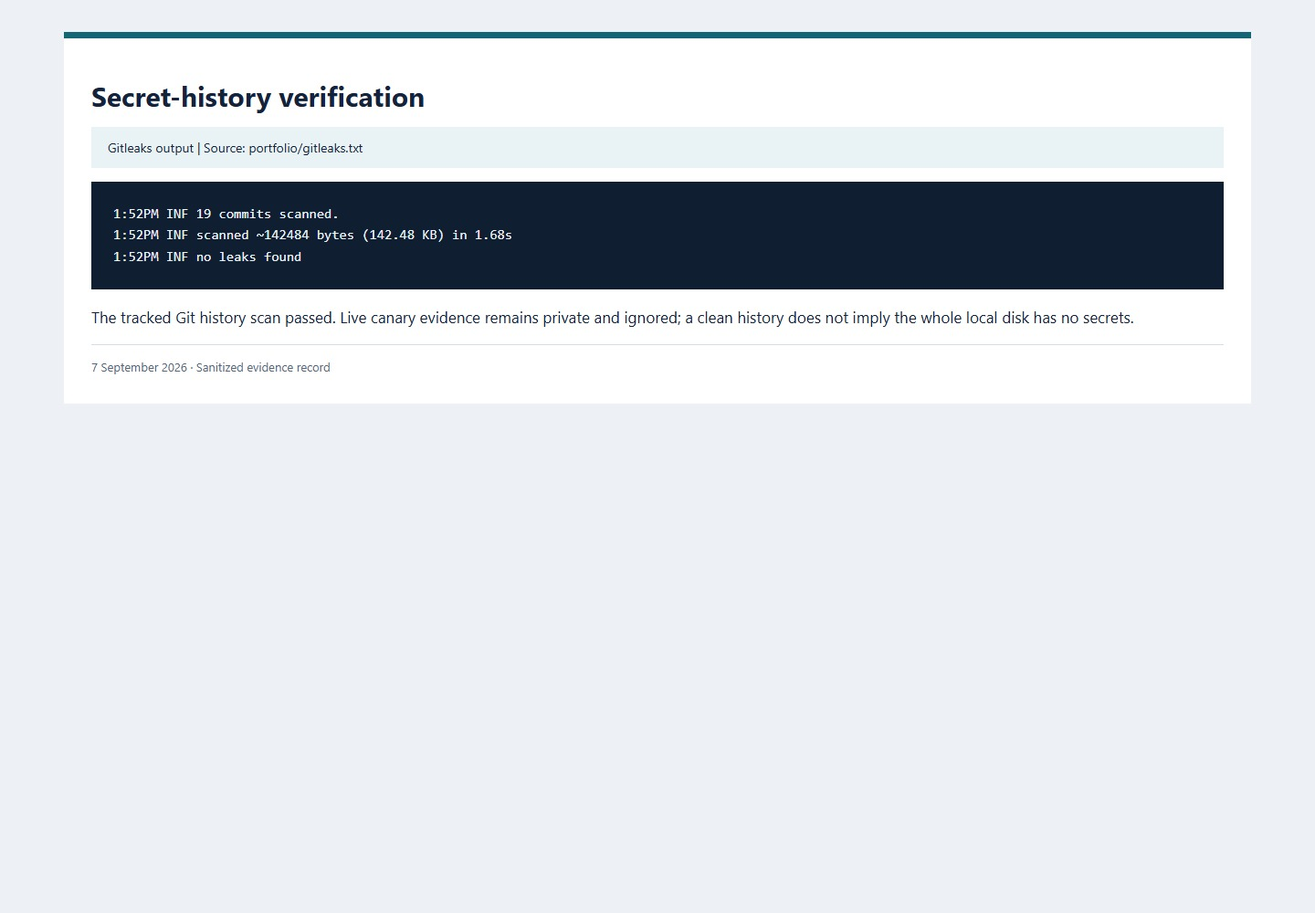
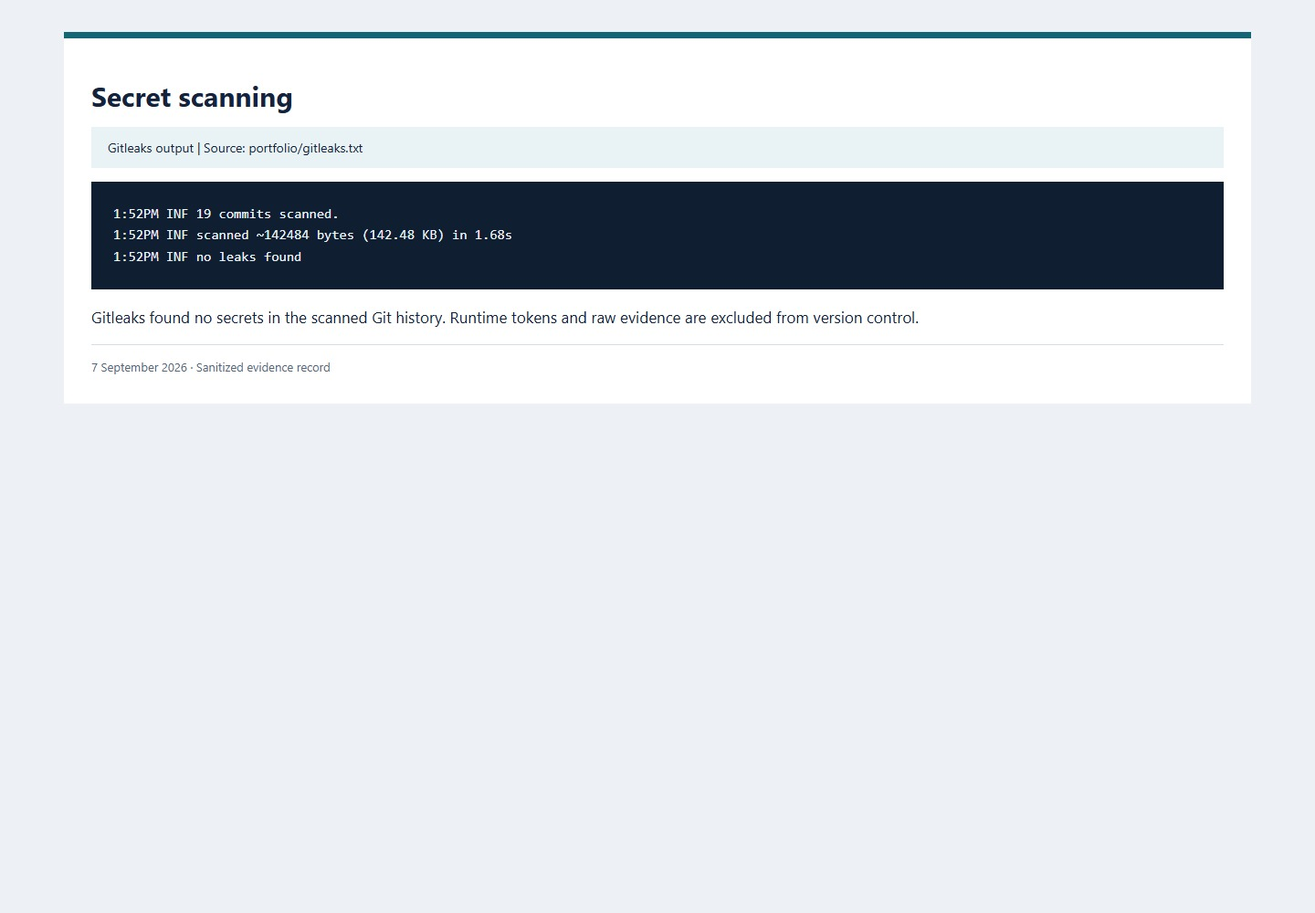
Write project documentation for readers and contributors

Changed region(s): [[0.0625, 0.341, 0.8438, 0.372], [0.125, 0.093, 0.3438, 0.124]]

diff --git a/docs/evidence/public/index.html b/docs/evidence/public/index.html
@@ -1,1 +1,1 @@
-<!doctype html><html lang="en"><meta charset="utf-8"><meta name="viewport" content="width=device-width,initial-scale=1"><title>Honey Token — validation walkthrough</title><style>body{margin:0;background:#edf1f5;color:#14233b;font:17px/1.55 Segoe UI,Arial}main{max-width:1240px;margin:35px auto;padding:30px;background:white;border-top:7px solid #126675}h1{font-size:30px;margin:10px 0}.meta{padding:12px 18px;background:#e9f2f4;font-size:14px}pre{white-space:pre-wrap;overflow-wrap:anywhere;font:15px/1.55 Consolas,monospace;background:#101e32;color:#ebf3fa;padding:24px}footer{font-size:13px;color:#53677c;border-top:1px solid #d4dee6;padding-top:14px}a{color:#126675}img{max-width:100%;height:auto}article{margin:36px 0;padding-top:20px;border-top:1px solid #ccd5dc}</style><main><h1>Honey Token</h1><p>Validation evidence from 7 September 2026, covering setup, deployment, document retrieval, event triage, Sentinel ingestion, and tests. Word and GitHub images are application captures. Azure images display saved API and query records, rather than the Azure portal. No teardown was performed.</p><p>Account details, email addresses, source IPs, tenant/subscription identifiers, callback tokens, and resource endpoints are redacted or excluded. Raw records remain outside this package.</p><h2>Validation walkthrough</h2><ol><li><a href="#step01">Purpose and architecture</a></li><li><a href="#step02">Starting state and baseline</a></li><li><a href="#step03">Infrastructure deployment</a></li><li><a href="#step04">Receiver security configuration</a></li><li><a href="#step05">Deployed receiver health</a></li><li><a href="#step06">Word renders the synthetic decoy</a></li><li><a href="#step07">Word callback and triage</a></li><li><a href="#step08">Persisted events and delivery outcomes</a></li><li><a href="#step09">Log Analytics ingestion</a></li><li><a href="#step10">Sentinel analytic rule</a></li><li><a href="#step11">Sentinel incident</a></li><li><a href="#step12">GitHub main CI status</a></li><li><a href="#step13">GitHub test job</a></li><li><a href="#step14">GitHub pytest log</a></li><li><a href="#step15">Local regression and SMTP delivery</a></li><li><a href="#step16">Secret-history verification</a></li><li><a href="#step17">Limitations and teardown status</a></li></ol><article id="step01"><h2>01. Purpose and architecture</h2><div class="meta">Design summary | Source: ARCHITECTURE.md</div><p>Detect interaction in an authorized lab. A callback is a signal, not proof of exfiltration or identity.</p><a href="01-evidence.jpg"><img loading="lazy" src="01-evidence.jpg" alt="Purpose and architecture"></a></article><article id="step02"><h2>02. Starting state and baseline</h2><div class="meta">Archived record, captured 2026-09-07 | Source: 00-azure-start-state.json + docs/BASELINE.md</div><p>Shows the recorded starting point. This is a view of archived records, not an original portal screenshot.</p><a href="02-evidence.jpg"><img loading="lazy" src="02-evidence.jpg" alt="Starting state and baseline"></a></article><article id="step03"><h2>03. Infrastructure deployment</h2><div class="meta">Archived Azure deployment response | Source: 03-bicep-final-deployment.json</div><p>Records the actual deployment result while withholding subscription, tenant, principal and endpoint values.</p><a href="03-evidence.jpg"><img loading="lazy" src="03-evidence.jpg" alt="Infrastructure deployment"></a></article><article id="step04"><h2>04. Receiver security configuration</h2><div class="meta">Source configuration evidence | Source: infra/main.bicep</div><p>Shows checked-in controls. Role configuration alone does not prove a fresh live access review.</p><a href="04-evidence.jpg"><img loading="lazy" src="04-evidence.jpg" alt="Receiver security configuration"></a></article><article id="step05"><h2>05. Deployed receiver health</h2><div class="meta">Archived HTTP result | Source: 09-container-app-health.json</div><p>HTTP 200 with receiver-only mode and Azure Table storage in the saved deployment validation.</p><a href="05-evidence.jpg"><img loading="lazy" src="05-evidence.jpg" alt="Deployed receiver health"></a></article><article id="step06"><h2>06. Word renders the synthetic decoy</h2><div class="meta">Microsoft Word UI capture | Source: Word 16.0.20326.20132</div><p>The generated DOCX displayed in Word. The capture excludes account controls and the cursor highlight. Image 07 contains the event recorded during the earlier local Word test.</p><a href="06-word-decoy.png"><img loading="lazy" src="06-word-decoy.png" alt="Word renders the synthetic decoy"></a></article><article id="step07"><h2>07. Word callback and triage</h2><div class="meta">Archived event from observed Word open | Source: word-viewer-result.json</div><p>Word 16.0.20326.20132 requested the local callback under existing settings. This does not establish Protected View or remote HTTPS behavior.</p><a href="07-evidence.jpg"><img loading="lazy" src="07-evidence.jpg" alt="Word callback and triage"></a></article><article id="step08"><h2>08. Persisted events and delivery outcomes</h2><div class="meta">Archived Azure Table query | Source: table-events-sanitized.json</div><p>Saved Azure Table rows retain alert and ingestion outcomes, including scanner severity. These rows are not duplicates; suppression is verified by the regression tests.</p><a href="08-evidence.jpg"><img loading="lazy" src="08-evidence.jpg" alt="Persisted events and delivery outcomes"></a></article><article id="step09"><h2>09. Log Analytics ingestion</h2><div class="meta">Archived CanaryHit_CL query | Source: log-analytics-latest.json</div><p>Saved query rows connect receiver events to the SIEM ingestion path. Raw callback tokens and source IPs are excluded.</p><a href="09-evidence.jpg"><img loading="lazy" src="09-evidence.jpg" alt="Log Analytics ingestion"></a></article><article id="step10"><h2>10. Sentinel analytic rule</h2><div class="meta">Archived rule configuration | Source: sentinel-rule.json</div><p>Shows scheduled detection logic and incident creation configuration. The evaluation schedule introduces delay.</p><a href="10-evidence.jpg"><img loading="lazy" src="10-evidence.jpg" alt="Sentinel analytic rule"></a></article><article id="step11"><h2>11. Sentinel incident</h2><div class="meta">Archived Sentinel incident response | Source: sentinel-incidents.json</div><p>Actual saved incident response; owner, incident URL, related resource IDs and tenant identifiers are omitted.</p><a href="11-evidence.jpg"><img loading="lazy" src="11-evidence.jpg" alt="Sentinel incident"></a></article><article id="step12"><h2>12. GitHub main CI status</h2><div class="meta">capture of completed GitHub run | Source: Actions run 34152044446, commit 2858824</div><p>The completed main-branch run reports Success. Account details and navigation are excluded from the crop.</p><a href="12-github-ci-status.jpg"><img loading="lazy" src="12-github-ci-status.jpg" alt="GitHub main CI status"></a></article><article id="step13"><h2>13. GitHub test job</h2><div class="meta">GitHub UI capture | Source: Actions run 34152044446</div><p>The workflow graph shows a successful test job. This is a cropped view of the actual GitHub page.</p><a href="13-github-test-job.jpg"><img loading="lazy" src="13-github-test-job.jpg" alt="GitHub test job"></a></article><article id="step14"><h2>14. GitHub pytest log</h2><div class="meta">GitHub UI capture | Source: Job 101836165394 in Actions run 34152044446</div><p>The actual pytest log shows completed assertions and dependency warnings. The full local summary is also visible in image 15.</p><a href="14-github-pytest-output.jpg"><img loading="lazy" src="14-github-pytest-output.jpg" alt="GitHub pytest log"></a></article><article id="step15"><h2>15. Local regression and SMTP delivery</h2><div class="meta">verification output | Source: portfolio/pytest.txt + tests/test_smtp_delivery.py</div><p>The suite includes a real ephemeral loopback SMTP sink, triage-field verification, duplicate suppression, and notification-failure isolation. No external mailbox credentials are used.</p><a href="15-evidence.jpg"><img loading="lazy" src="15-evidence.jpg" alt="Local regression and SMTP delivery"></a></article><article id="step16"><h2>16. Secret-history verification</h2><div class="meta">Gitleaks output | Source: portfolio/gitleaks.txt</div><p>The tracked Git history scan passed. Live canary evidence remains private and ignored; a clean history does not imply the whole local disk has no secrets.</p><a href="16-evidence.jpg"><img loading="lazy" src="16-evidence.jpg" alt="Secret-history verification"></a></article><article id="step17"><h2>17. Limitations and teardown status</h2><div class="meta">Documented final state | Source: VALIDATION_REPORT.md + COST_AND_TEARDOWN.md</div><p>The repository remains private. Publishing source and operating a production service are separate decisions.</p><a href="17-evidence.jpg"><img loading="lazy" src="17-evidence.jpg" alt="Limitations and teardown status"></a></article></main></html>
+<!doctype html><html lang="en"><meta charset="utf-8"><meta name="viewport" content="width=device-width,initial-scale=1"><title>Honey Token — validation walkthrough</title><style>body{margin:0;background:#edf1f5;color:#14233b;font:17px/1.55 Segoe UI,Arial}main{max-width:1240px;margin:35px auto;padding:30px;background:white;border-top:7px solid #126675}h1{font-size:30px;margin:10px 0}.meta{padding:12px 18px;background:#e9f2f4;font-size:14px}pre{white-space:pre-wrap;overflow-wrap:anywhere;font:15px/1.55 Consolas,monospace;background:#101e32;color:#ebf3fa;padding:24px}footer{font-size:13px;color:#53677c;border-top:1px solid #d4dee6;padding-top:14px}a{color:#126675}img{max-width:100%;height:auto}article{margin:36px 0;padding-top:20px;border-top:1px solid #ccd5dc}</style><main><h1>Honey Token</h1><p>Project walkthrough recorded on 7 September 2026, covering setup, deployment, document retrieval, event triage, Sentinel ingestion, and tests. Word and GitHub images are application captures. Azure images display saved API and query records, rather than the Azure portal. No teardown was performed.</p><p>Account details, email addresses, source IPs, tenant/subscription identifiers, callback tokens, and resource endpoints are redacted or excluded. Raw records remain outside this package.</p><h2>Project walkthrough</h2><ol><li><a href="#step01">Purpose and architecture</a></li><li><a href="#step02">Starting state and baseline</a></li><li><a href="#step03">Infrastructure deployment</a></li><li><a href="#step04">Receiver security configuration</a></li><li><a href="#step05">Deployed receiver health</a></li><li><a href="#step06">Word renders the synthetic decoy</a></li><li><a href="#step07">Word callback and triage</a></li><li><a href="#step08">Persisted events and delivery outcomes</a></li><li><a href="#step09">Log Analytics ingestion</a></li><li><a href="#step10">Sentinel analytic rule</a></li><li><a href="#step11">Sentinel incident</a></li><li><a href="#step12">GitHub main CI status</a></li><li><a href="#step13">GitHub test job</a></li><li><a href="#step14">GitHub pytest log</a></li><li><a href="#step15">Local regression and SMTP delivery</a></li><li><a href="#step16">Secret scanning</a></li><li><a href="#step17">Limitations and teardown status</a></li></ol><article id="step01"><h2>01. Purpose and architecture</h2><div class="meta">Design summary | Source: ARCHITECTURE.md</div><p>Detect interaction in an authorized lab. A callback is a signal, not proof of exfiltration or identity.</p><a href="01-evidence.jpg"><img loading="lazy" src="01-evidence.jpg" alt="Purpose and architecture"></a></article><article id="step02"><h2>02. Starting state and baseline</h2><div class="meta">Archived record, captured 2026-09-07 | Source: 00-azure-start-state.json + docs/BASELINE.md</div><p>Shows the recorded starting point. This is a view of archived records, not an original portal screenshot.</p><a href="02-evidence.jpg"><img loading="lazy" src="02-evidence.jpg" alt="Starting state and baseline"></a></article><article id="step03"><h2>03. Infrastructure deployment</h2><div class="meta">Archived Azure deployment response | Source: 03-bicep-final-deployment.json</div><p>Records the actual deployment result while withholding subscription, tenant, principal and endpoint values.</p><a href="03-evidence.jpg"><img loading="lazy" src="03-evidence.jpg" alt="Infrastructure deployment"></a></article><article id="step04"><h2>04. Receiver security configuration</h2><div class="meta">Source configuration evidence | Source: infra/main.bicep</div><p>Shows checked-in controls. Role configuration alone does not prove a fresh live access review.</p><a href="04-evidence.jpg"><img loading="lazy" src="04-evidence.jpg" alt="Receiver security configuration"></a></article><article id="step05"><h2>05. Deployed receiver health</h2><div class="meta">Archived HTTP result | Source: 09-container-app-health.json</div><p>HTTP 200 with receiver-only mode and Azure Table storage in the saved deployment validation.</p><a href="05-evidence.jpg"><img loading="lazy" src="05-evidence.jpg" alt="Deployed receiver health"></a></article><article id="step06"><h2>06. Word renders the synthetic decoy</h2><div class="meta">Microsoft Word UI capture | Source: Word 16.0.20326.20132</div><p>Word displays the generated synthetic document. The corresponding local callback event appears in image 07.</p><a href="06-word-decoy.png"><img loading="lazy" src="06-word-decoy.png" alt="Word renders the synthetic decoy"></a></article><article id="step07"><h2>07. Word callback and triage</h2><div class="meta">Archived event from observed Word open | Source: word-viewer-result.json</div><p>Word 16.0.20326.20132 requested the local callback under existing settings. This does not establish Protected View or remote HTTPS behavior.</p><a href="07-evidence.jpg"><img loading="lazy" src="07-evidence.jpg" alt="Word callback and triage"></a></article><article id="step08"><h2>08. Persisted events and delivery outcomes</h2><div class="meta">Archived Azure Table query | Source: table-events-sanitized.json</div><p>Saved Azure Table rows retain alert and ingestion outcomes, including scanner severity. These rows are not duplicates; suppression is verified by the regression tests.</p><a href="08-evidence.jpg"><img loading="lazy" src="08-evidence.jpg" alt="Persisted events and delivery outcomes"></a></article><article id="step09"><h2>09. Log Analytics ingestion</h2><div class="meta">Archived CanaryHit_CL query | Source: log-analytics-latest.json</div><p>Saved query rows connect receiver events to the SIEM ingestion path. Raw callback tokens and source IPs are excluded.</p><a href="09-evidence.jpg"><img loading="lazy" src="09-evidence.jpg" alt="Log Analytics ingestion"></a></article><article id="step10"><h2>10. Sentinel analytic rule</h2><div class="meta">Archived rule configuration | Source: sentinel-rule.json</div><p>Shows scheduled detection logic and incident creation configuration. The evaluation schedule introduces delay.</p><a href="10-evidence.jpg"><img loading="lazy" src="10-evidence.jpg" alt="Sentinel analytic rule"></a></article><article id="step11"><h2>11. Sentinel incident</h2><div class="meta">Archived Sentinel incident response | Source: sentinel-incidents.json</div><p>Actual saved incident response; owner, incident URL, related resource IDs and tenant identifiers are omitted.</p><a href="11-evidence.jpg"><img loading="lazy" src="11-evidence.jpg" alt="Sentinel incident"></a></article><article id="step12"><h2>12. GitHub main CI status</h2><div class="meta">capture of completed GitHub run | Source: Actions run 34152044446, commit 2858824</div><p>The completed main-branch run reports Success. Account details and navigation are excluded from the crop.</p><a href="12-github-ci-status.jpg"><img loading="lazy" src="12-github-ci-status.jpg" alt="GitHub main CI status"></a></article><article id="step13"><h2>13. GitHub test job</h2><div class="meta">GitHub UI capture | Source: Actions run 34152044446</div><p>The workflow graph shows a successful test job. This is a cropped view of the actual GitHub page.</p><a href="13-github-test-job.jpg"><img loading="lazy" src="13-github-test-job.jpg" alt="GitHub test job"></a></article><article id="step14"><h2>14. GitHub pytest log</h2><div class="meta">GitHub UI capture | Source: Job 101836165394 in Actions run 34152044446</div><p>The actual pytest log shows completed assertions and dependency warnings. The full local summary is also visible in image 15.</p><a href="14-github-pytest-output.jpg"><img loading="lazy" src="14-github-pytest-output.jpg" alt="GitHub pytest log"></a></article><article id="step15"><h2>15. Local regression and SMTP delivery</h2><div class="meta">verification output | Source: portfolio/pytest.txt + tests/test_smtp_delivery.py</div><p>The suite includes a real ephemeral loopback SMTP sink, triage-field verification, duplicate suppression, and notification-failure isolation. No external mailbox credentials are used.</p><a href="15-evidence.jpg"><img loading="lazy" src="15-evidence.jpg" alt="Local regression and SMTP delivery"></a></article><article id="step16"><h2>16. Secret scanning</h2><div class="meta">Gitleaks output | Source: portfolio/gitleaks.txt</div><p>Gitleaks found no secrets in the scanned Git history. Runtime tokens and raw evidence are excluded from version control.</p><a href="16-evidence.jpg"><img loading="lazy" src="16-evidence.jpg" alt="Secret scanning"></a></article><article id="step17"><h2>17. Limitations and teardown status</h2><div class="meta">Operational notes | Source: CASE_STUDY.md + COST_AND_TEARDOWN.md</div><p>Use the scoped teardown script to remove the lab resources after exporting any records needed for investigation.</p><a href="17-evidence.jpg"><img loading="lazy" src="17-evidence.jpg" alt="Limitations and teardown status"></a></article></main></html>

diff --git a/docs/evidence/public/17-evidence.html b/docs/evidence/public/17-evidence.html
@@ -1,10 +1,8 @@
-<!doctype html><html lang="en"><meta charset="utf-8"><title>Limitations and teardown status</title><style>body{margin:0;background:#edf1f5;color:#14233b;font:17px/1.55 Segoe UI,Arial}main{max-width:1240px;margin:35px auto;padding:30px;background:white;border-top:7px solid #126675}h1{font-size:30px;margin:10px 0}.meta{padding:12px 18px;background:#e9f2f4;font-size:14px}pre{white-space:pre-wrap;overflow-wrap:anywhere;font:15px/1.55 Consolas,monospace;background:#101e32;color:#ebf3fa;padding:24px}footer{font-size:13px;color:#53677c;border-top:1px solid #d4dee6;padding-top:14px}a{color:#126675}img{max-width:100%;height:auto}article{margin:36px 0;padding-top:20px;border-top:1px solid #ccd5dc}</style><main><h1>Limitations and teardown status</h1><div class="meta">Documented final state | Source: VALIDATION_REPORT.md + COST_AND_TEARDOWN.md</div><pre>Validation completed: experimental detection project
-
-Production limits:
+<!doctype html><html lang="en"><meta charset="utf-8"><title>Limitations and teardown status</title><style>body{margin:0;background:#edf1f5;color:#14233b;font:17px/1.55 Segoe UI,Arial}main{max-width:1240px;margin:35px auto;padding:30px;background:white;border-top:7px solid #126675}h1{font-size:30px;margin:10px 0}.meta{padding:12px 18px;background:#e9f2f4;font-size:14px}pre{white-space:pre-wrap;overflow-wrap:anywhere;font:15px/1.55 Consolas,monospace;background:#101e32;color:#ebf3fa;padding:24px}footer{font-size:13px;color:#53677c;border-top:1px solid #d4dee6;padding-top:14px}a{color:#126675}img{max-width:100%;height:auto}article{margin:36px 0;padding-top:20px;border-top:1px solid #ccd5dc}</style><main><h1>Limitations and teardown status</h1><div class="meta">Operational notes | Source: CASE_STUDY.md + COST_AND_TEARDOWN.md</div><pre>Deployment considerations:
 - callback may be blocked or offline
 - scanner requests can cause false positives
 - source IP is not identity
 - no automatic delivery retry worker
 - rate limits, retention and integrity need deployment controls
 
-Teardown was not performed.</pre><p>The repository remains private. Publishing source and operating a production service are separate decisions.</p><footer>7 September 2026 · Sanitized evidence record</footer></main></html>
+Teardown was not performed.</pre><p>Use the scoped teardown script to remove the lab resources after exporting any records needed for investigation.</p><footer>7 September 2026 · Sanitized evidence record</footer></main></html>

diff --git a/docs/evidence/public/16-evidence.html b/docs/evidence/public/16-evidence.html
@@ -1,4 +1,4 @@
-<!doctype html><html lang="en"><meta charset="utf-8"><title>Secret-history verification</title><style>body{margin:0;background:#edf1f5;color:#14233b;font:17px/1.55 Segoe UI,Arial}main{max-width:1240px;margin:35px auto;padding:30px;background:white;border-top:7px solid #126675}h1{font-size:30px;margin:10px 0}.meta{padding:12px 18px;background:#e9f2f4;font-size:14px}pre{white-space:pre-wrap;overflow-wrap:anywhere;font:15px/1.55 Consolas,monospace;background:#101e32;color:#ebf3fa;padding:24px}footer{font-size:13px;color:#53677c;border-top:1px solid #d4dee6;padding-top:14px}a{color:#126675}img{max-width:100%;height:auto}article{margin:36px 0;padding-top:20px;border-top:1px solid #ccd5dc}</style><main><h1>Secret-history verification</h1><div class="meta">Gitleaks output | Source: portfolio/gitleaks.txt</div><pre>1:52PM INF 19 commits scanned.
+<!doctype html><html lang="en"><meta charset="utf-8"><title>Secret scanning</title><style>body{margin:0;background:#edf1f5;color:#14233b;font:17px/1.55 Segoe UI,Arial}main{max-width:1240px;margin:35px auto;padding:30px;background:white;border-top:7px solid #126675}h1{font-size:30px;margin:10px 0}.meta{padding:12px 18px;background:#e9f2f4;font-size:14px}pre{white-space:pre-wrap;overflow-wrap:anywhere;font:15px/1.55 Consolas,monospace;background:#101e32;color:#ebf3fa;padding:24px}footer{font-size:13px;color:#53677c;border-top:1px solid #d4dee6;padding-top:14px}a{color:#126675}img{max-width:100%;height:auto}article{margin:36px 0;padding-top:20px;border-top:1px solid #ccd5dc}</style><main><h1>Secret scanning</h1><div class="meta">Gitleaks output | Source: portfolio/gitleaks.txt</div><pre>1:52PM INF 19 commits scanned.
 1:52PM INF scanned ~142484 bytes (142.48 KB) in 1.68s
 1:52PM INF no leaks found
-</pre><p>The tracked Git history scan passed. Live canary evidence remains private and ignored; a clean history does not imply the whole local disk has no secrets.</p><footer>7 September 2026 · Sanitized evidence record</footer></main></html>
+</pre><p>Gitleaks found no secrets in the scanned Git history. Runtime tokens and raw evidence are excluded from version control.</p><footer>7 September 2026 · Sanitized evidence record</footer></main></html>

diff --git a/CASE_STUDY.md b/CASE_STUDY.md
@@ -1,0 +1,64 @@
+# Document honeytokens with Azure and Microsoft Sentinel
+
+Honey Token turns a decoy document's external image request into an event that can be investigated. The project combines a Python/FastAPI receiver, document generation, durable storage, scanner-aware triage, and console, SMTP, or Sentinel integration.
+
+## Problem and approach
+
+A sensitive-looking decoy can provide an early signal when accessed outside its expected workflow. Each generated document contains a unique callback URL. When a compatible viewer requests that resource, the receiver stores the timestamp, source metadata, and document association before classifying the event and attempting notification.
+
+The signal has a narrow meaning: the resource was requested. Security scanners and preview services can trigger it, while offline hosts or viewers that block external content may produce no event. Investigation requires identity, endpoint, and file-access context.
+
+## Implementation
+
+The local service uses SQLite and exposes management endpoints for creating, listing, and disabling tokens. DOCX files use an external image relationship; HTML decoys reference the same transparent pixel endpoint.
+
+The Azure deployment uses Bicep to provision Container Apps, Table Storage, a managed identity, a container registry, Log Analytics, and Microsoft Sentinel. The public receiver exposes only health and callback routes. Management routes return 404, and provisioning runs through a local operator process.
+
+```text
+Callback -> stored event -> triage -> console / SMTP
+                              |
+                              +-> DCR -> Log Analytics -> Sentinel incident
+```
+
+The managed identity has scoped access to pull the container image, write table entities, and ingest logs. Storage shared keys and registry admin credentials are disabled. Log Analytics receives a hashed token identifier rather than the raw callback URL.
+
+## Engineering decisions
+
+- **Persist before delivery.** SMTP or ingestion failures leave a stored event and delivery status for investigation.
+- **Keep delivery paths independent.** An SMTP failure does not prevent the Sentinel adapter from running or change a recorded callback into an HTTP 500.
+- **Retain repeat events.** Duplicate suppression reduces notifications while retaining callback records.
+- **Separate management from collection.** Local management uses an API key for remote clients; the Azure receiver disables management routes entirely.
+- **Exclude tokens from access logs.** Callback paths contain live identifiers, so the container disables Uvicorn access logging.
+
+## Observed behavior
+
+The following observations were recorded on 7 September 2026 using Windows 11, Python 3.13.14, and Azure in `southcentralus`.
+
+| Scenario | Observation |
+| --- | --- |
+| Local document retrieval | Word 16.0.20326.20132 displayed the generated DOCX and requested its loopback callback. The event was classified high and a console alert was recorded. |
+| Cloud callback | A controlled HTTP request returned a 34-byte GIF and produced a Table Storage event, Log Analytics row, and Sentinel incident. |
+| Scanner request | A curl User-Agent received medium severity with the classification `Possible automated scanner interaction`. |
+| Repeat request | The event remained stored; its notification was suppressed and the SIEM row recorded `FirstHit=false`. |
+| Disabled token | The callback returned HTTP 404. |
+| SMTP delivery | An ephemeral local SMTP sink received a message containing the event's triage fields. Two callbacks produced one email within the suppression window. |
+
+The Word and Azure paths were exercised separately. Word-to-Azure retrieval, Protected View, mobile viewers, and cloud SMTP delivery were not tested. The [compatibility matrix](COMPATIBILITY.md) records viewer coverage; the [screenshot walkthrough](docs/evidence/public/README.md) shows the saved records and application captures.
+
+## Ingestion failure and fix
+
+The first Azure ingestion attempt failed because the receiver used a regional hostname that did not resolve. The hit remained in Table Storage with `sentinel_status=failed`. Bicep now supplies `dcr.properties.endpoints.logsIngestion`, the endpoint returned by the deployed Data Collection Rule. Subsequent events reached `CanaryHit_CL` and generated a Sentinel incident.
+
+This failure illustrates why collection and notification have separate outcomes: an ingestion outage should remain distinguishable from a missing callback.
+
+## Operational limits
+
+Delivery is synchronous and has no automatic retry worker. Duplicate suppression is best effort across concurrent instances. Table Storage is durable but does not provide a tamper-evident forensic archive. A broader deployment needs ingress rate limits, retention rules, failed-delivery monitoring, and additional viewer testing.
+
+The Sentinel rule runs every five minutes with a ten-minute lookback, so incidents depend on ingestion and scheduled evaluation. Callback IP addresses may identify a proxy or scanner rather than the originating user.
+
+## Explore the implementation
+
+- [Architecture](ARCHITECTURE.md) and [trust boundaries](docs/architecture.md)
+- [Azure deployment](AZURE_DEPLOYMENT.md) and [Sentinel queries](SENTINEL.md)
+- [Tests](TESTING.md), [security notes](SECURITY.md), and [cost and teardown](COST_AND_TEARDOWN.md)

diff --git a/README.md b/README.md
@@ -1,12 +1,12 @@
 # Honey Token
 
-A self-hosted document honeytoken detector for detecting interaction with sensitive-looking decoy files in an **authorized environment**.
+Honey Token detects requests from decoy documents and turns them into triaged security events. It runs locally with SQLite or on Azure with Table Storage and Microsoft Sentinel.
 
 The project creates a unique callback token, associates it with a decoy such as `Synthetic_Forecast.docx`, records callback telemetry, performs lightweight triage, suppresses duplicate notifications, and sends an alert to the console or email.
 
-Tested with a generated DOCX in Word on Windows and, separately, with controlled HTTPS callbacks to an Azure receiver and Microsoft Sentinel. See the [validation results](VALIDATION_REPORT.md) and [compatibility matrix](COMPATIBILITY.md) for the test conditions.
+[Read the case study](CASE_STUDY.md) for the architecture, engineering decisions, and observed behavior, or [browse the screenshots](docs/evidence/public/README.md) for a visual walkthrough.
 
-## What it is
+## How it works
 
 ```text
 Decoy file
@@ -113,7 +113,7 @@ python -m app.cli create \
 
 The command returns a token ID, callback URL and generated decoy path.
 
-### 5. Validate the detector before opening the document
+### 5. Send a callback
 
 Call the callback URL returned by the CLI:
 
@@ -133,7 +133,11 @@ Open interactive API docs at:
 http://127.0.0.1:8000/docs
 ```
 
-### Azure receiver validation
+### 6. Open the document
+
+Open the generated file on a lab endpoint that can reach the callback server. Record whether the viewer actually requests the external resource. If it does not, treat that as an observed product-control limitation rather than trying to bypass the viewer's security controls.
+
+## Azure deployment
 
 The checked-in Azure path provisions a dedicated resource group with a Basic ACR, user-assigned managed identity, Consumption Container App, Standard LRS Table Storage, Log Analytics, a Direct Data Collection Rule and a Microsoft Sentinel scheduled rule. The receiver image is unchanged application code packaged in the existing `Dockerfile`; Azure switches only the storage and ingestion adapters through environment variables.
 
@@ -145,7 +149,7 @@ The checked-in Azure path provisions a dedicated resource group with a Basic ACR
 
 The deployed receiver exposes `/health` and `/t/<token>/pixel.gif`. It returns 404 for `/api/*` so management operations stay local to an authenticated operator process. The runtime uses its managed identity for ACR pull, Azure Table Storage and Logs Ingestion. It does not use storage keys, registry admin credentials, or callback secrets in the container configuration. `CanaryHit_CL` receives only a hashed canary identifier and normalized event fields.
 
-### Management API protection
+## Management API protection
 
 The callback route stays public because the token is the tripwire identifier. Management routes under `/api/*` are limited to loopback clients when `CANARY_MANAGEMENT_API_KEY` is empty. Before remote use, set a strong value and send it as `X-Canary-API-Key`:
 
@@ -158,10 +162,6 @@ curl -H "X-Canary-API-Key: $CANARY_MANAGEMENT_API_KEY" http://127.0.0.1:8000/api
 ```
 
 Use TLS at a trusted reverse proxy for remote deployments. Never put the key in source control, a decoy, or a URL.
-
-### 6. Test the DOCX in a controlled lab
-
-Open the generated file on a lab endpoint that can reach the callback server. Record whether the viewer actually requests the external resource. If it does not, treat that as an observed product-control limitation rather than trying to bypass the viewer's security controls.
 
 ## Email alerts
 
@@ -190,7 +190,7 @@ The body includes a short hashed canary identifier, filename, timestamp, source 
 
 ## Triage logic
 
-The MVP produces a structured event:
+Each callback produces a structured event:
 
 ```json
 {
@@ -200,9 +200,9 @@ The MVP produces a structured event:
 }
 ```
 
-A small scanner heuristic reduces obvious automated requests to `medium` severity. This is deliberately simple. A real environment should enrich the event with endpoint, identity and audit telemetry.
+A small scanner heuristic reduces obvious automated requests to `medium` severity. Correlate these events with endpoint, identity, and audit telemetry during investigation.
 
-A useful production workflow is:
+An investigation can follow this sequence:
 
 ```text
 Canary fires
@@ -291,6 +291,6 @@ Deploy decoys only in systems and networks you own or are authorized to monitor.
 
 MIT
 
-## Validation evidence
+## Screenshots
 
-The [numbered screenshot walkthrough](docs/evidence/public/README.md) covers the baseline, deployment, decoy, triage, SIEM, tests, and release boundary. Every image identifies whether it is a fresh application capture or a view of archived evidence. Sensitive identifiers are excluded. The [offline gallery](docs/evidence/public/index.html) opens locally with the image files alongside it.
+The [numbered screenshot walkthrough](docs/evidence/public/README.md) covers setup, deployment, document retrieval, triage, Sentinel, and tests. Images distinguish application captures from views of saved records. Sensitive identifiers are excluded. The [offline gallery](docs/evidence/public/index.html) opens locally with the image files alongside it.

diff --git a/docs/evidence/public/README.md b/docs/evidence/public/README.md
@@ -1,6 +1,6 @@
 # Honey Token — validation walkthrough
 
-Validation evidence from 7 September 2026, covering setup, deployment, document retrieval, event triage, Sentinel ingestion, and tests. Word and GitHub images are application captures. Azure images display saved API and query records, rather than the Azure portal. No teardown was performed.
+Project walkthrough recorded on 7 September 2026, covering setup, deployment, document retrieval, event triage, Sentinel ingestion, and tests. Word and GitHub images are application captures. Azure images display saved API and query records, rather than the Azure portal. No teardown was performed.
 
 Account details, email addresses, source IPs, tenant/subscription identifiers, callback tokens, and resource endpoints are redacted or excluded. Raw records remain outside this package.
 
@@ -50,7 +50,7 @@ HTTP 200 with receiver-only mode and Azure Table storage in the saved deployment
 
 **Microsoft Word UI capture** — Source: `Word 16.0.20326.20132`.
 
-The generated DOCX displayed in Word. The capture excludes account controls and the cursor highlight. Image 07 contains the event recorded during the earlier local Word test.
+Word displays the generated synthetic document. The corresponding local callback event appears in image 07.
 
 ![Word renders the synthetic decoy](06-word-decoy.png)
 
@@ -126,18 +126,18 @@ The suite includes a real ephemeral loopback SMTP sink, triage-field verificatio
 
 ![Local regression and SMTP delivery](15-evidence.jpg)
 
-## 16. Secret-history verification
+## 16. Secret scanning
 
 **Gitleaks output** — Source: `portfolio/gitleaks.txt`.
 
-The tracked Git history scan passed. Live canary evidence remains private and ignored; a clean history does not imply the whole local disk has no secrets.
+Gitleaks found no secrets in the scanned Git history. Runtime tokens and raw evidence are excluded from version control.
 
-![Secret-history verification](16-evidence.jpg)
+![Secret scanning](16-evidence.jpg)
 
 ## 17. Limitations and teardown status
 
-**Documented final state** — Source: `VALIDATION_REPORT.md + COST_AND_TEARDOWN.md`.
+**Operational notes** — Source: `CASE_STUDY.md + COST_AND_TEARDOWN.md`.
 
-The repository remains private. Publishing source and operating a production service are separate decisions.
+Use the scoped teardown script to remove the lab resources after exporting any records needed for investigation.
 
 ![Limitations and teardown status](17-evidence.jpg)

diff --git a/docs/evidence/EVIDENCE_INDEX.md b/docs/evidence/EVIDENCE_INDEX.md
@@ -1,7 +1,5 @@
-# Evidence index
+# Screenshots
 
-The earlier index named planned captures; no historical screenshot files accompanied those names.
+The [numbered walkthrough](public/README.md) and [offline gallery](public/index.html) follow the project from setup through event collection, triage, and Sentinel integration. The package contains 17 images with sources and hashes in [captions.json](public/captions.json).
 
-The completed [numbered screenshot walkthrough](public/README.md) and [offline gallery](public/index.html) contain 17 actual image files, their sources, and capture types. See captions.json for file hashes.
-
-Word and GitHub are fresh application captures. Azure stages use labelled views of saved API/query records; these are not original portal screenshots. Raw evidence remains in ignored evidence-private/. Teardown was not performed.
+Word and GitHub images are application captures. Azure images display saved API and query records. Sensitive identifiers are redacted or excluded. The final step describes operational limitations and teardown status.
